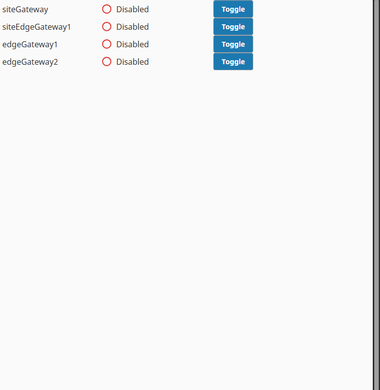
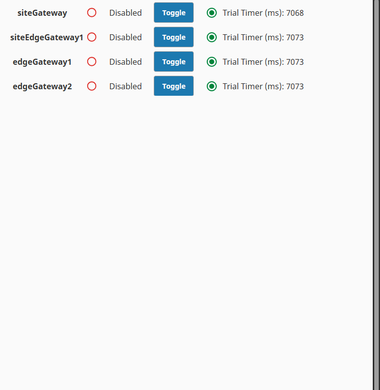
Chore: MQTT Transmission API Enabled

diff --git a/services/corpGateway/projects/corpGateway/ignition/script-python/API/code.py b/services/corpGateway/projects/corpGateway/ignition/script-python/API/code.py
@@ -45,7 +45,11 @@ def apiPut(endpoint, payload, gatewayName, baseURL='http://{}:8088'):
 		msg= "Error executing HTTP POST:", e
 	return msg
 
-
+def trialState(gatewayName, baseURL='http://{}:8088'):
+	endpoint='{baseUrl}/data/api/v1/trial'
+	response= API.apiGet(endpoint, gatewayName, baseURL)
+	return response
+	
 def MQTTtransmissionState(gatewayName, baseURL='http://{}:8088'):
 	endpoint='{baseUrl}/data/api/v1/resources/singleton/com.cirruslink.mqtt.transmission.gateway/general'
 	response= API.apiGet(endpoint, gatewayName, baseURL)
